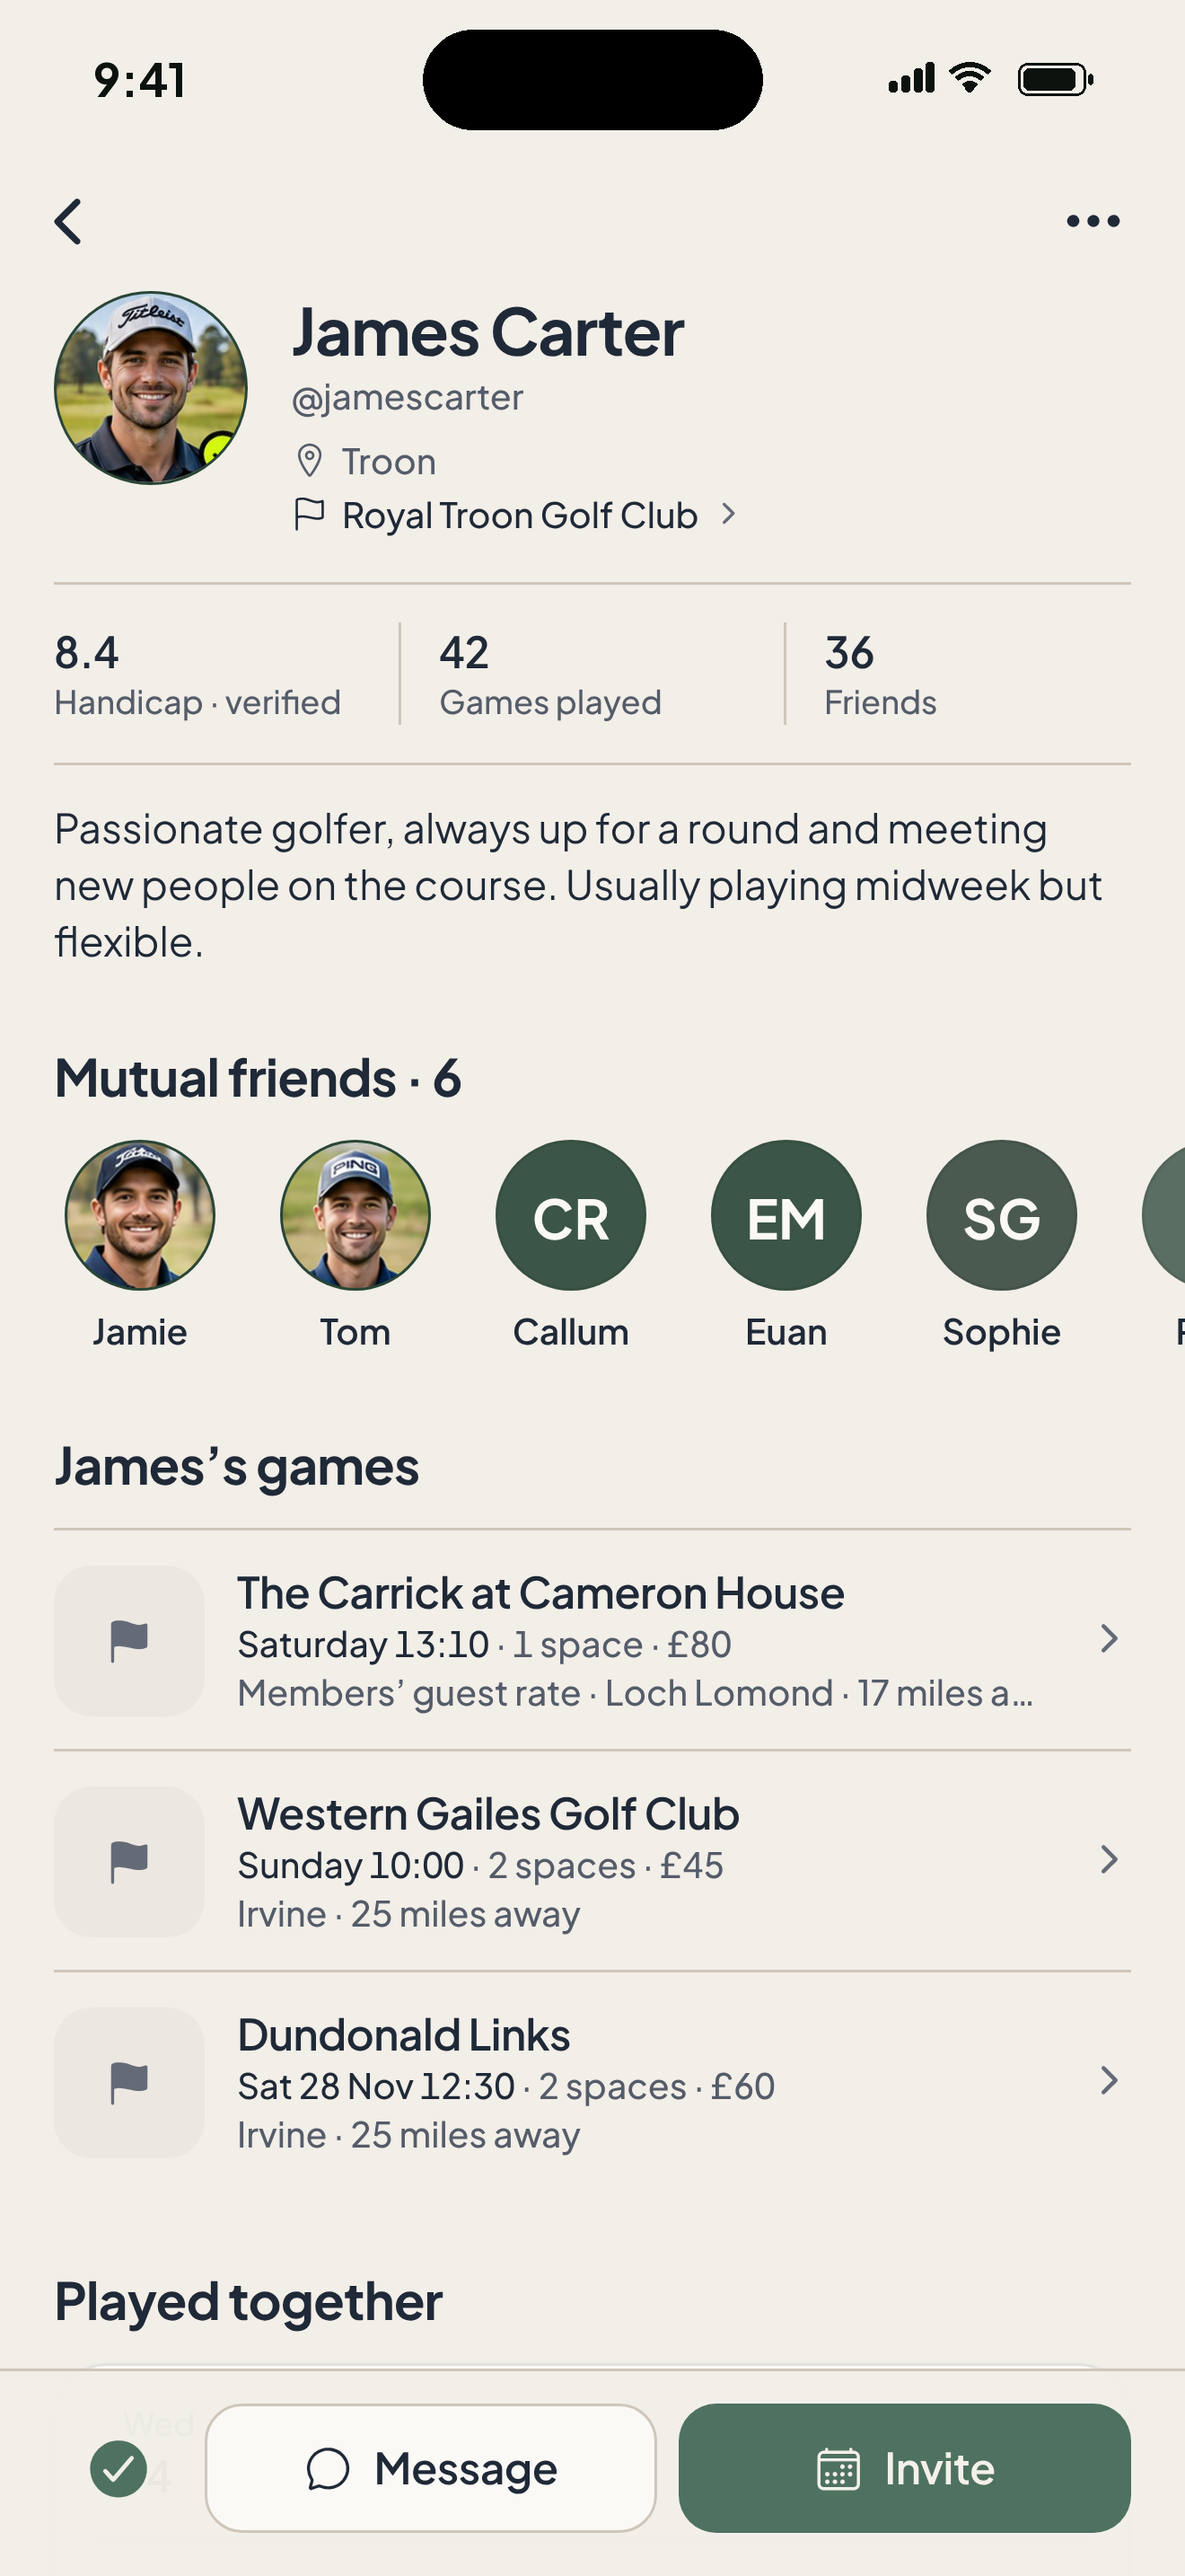
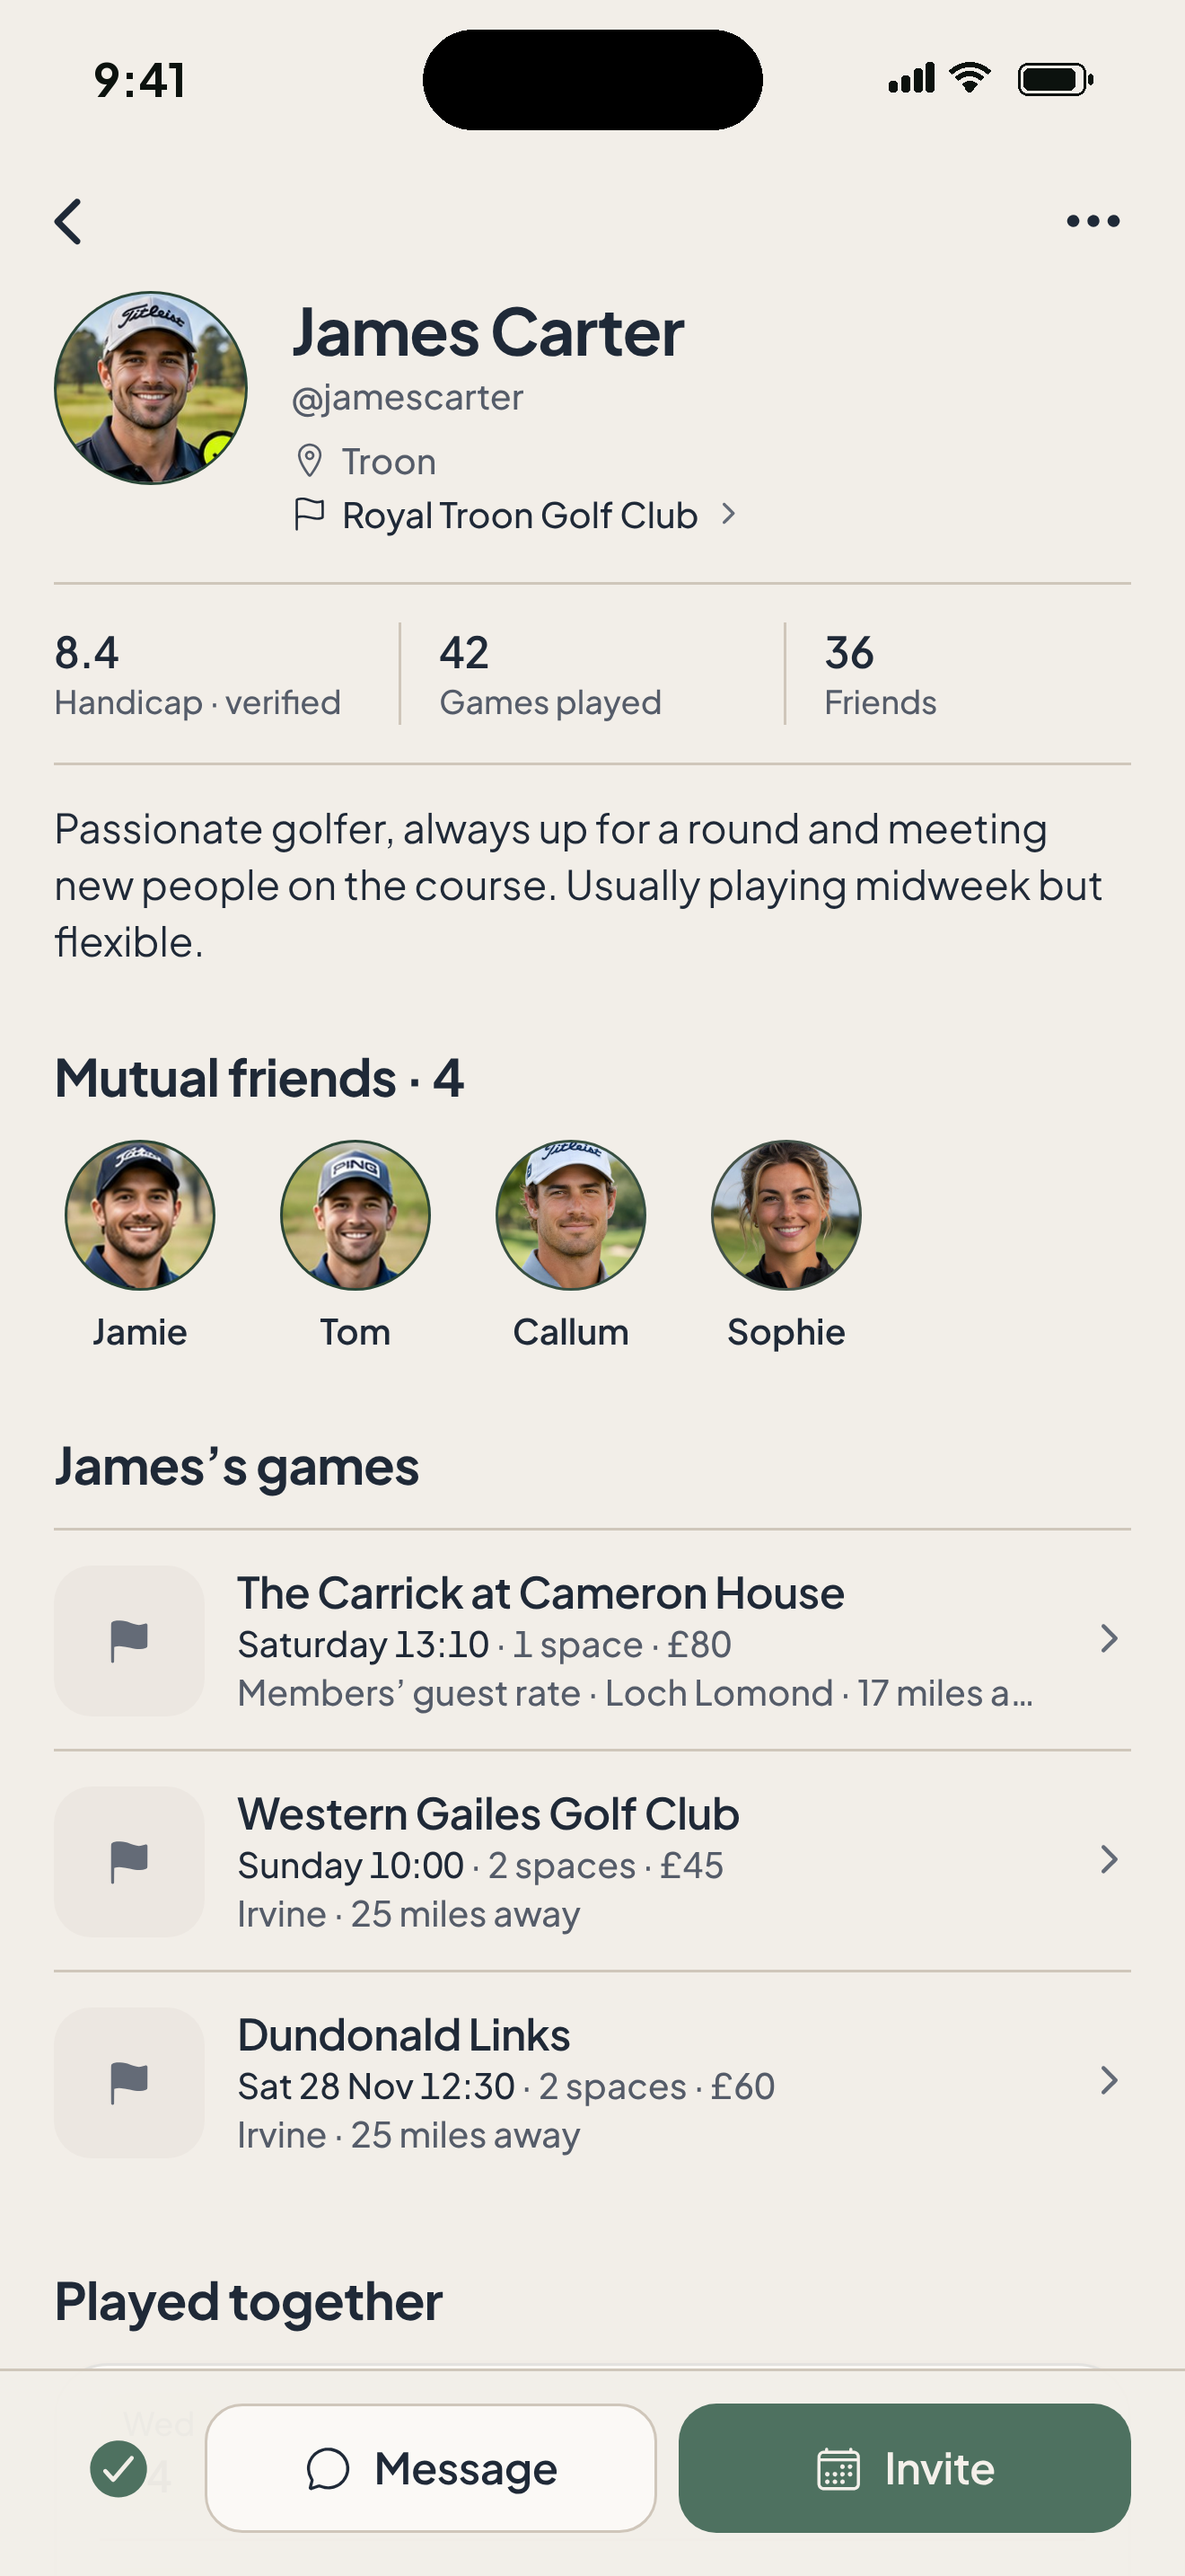
Photos for demo golfers Callum and Sophie, and a photo-only profile screenshot
Callum Reid and Sophie Grant get portraits in place of initials, wherever they appear in the
demo. The App Store profile screenshot shows four mutual friends, all with photos.

Claude-Session: https://claude.ai/code/session_01HoGwsdM8BTbhwhuJxu7WFY

diff --git a/findfore-app/src/data/seed.ts b/findfore-app/src/data/seed.ts
@@ -52,8 +52,8 @@ export const demoGolfers: Golfer[] = [
   golfer({ id: 'g-jamie', firstName: 'Jamie', lastName: 'Wilson', handicap: 6.2, handicapVerified: true, location: place('Troon'), homeClub: 'Western Gailes Golf Club', avatar: 'jamie', gamesPlayed: 31, bio: 'Member at Western Gailes. Happy to host guests who love proper links golf.' }),
   golfer({ id: 'g-tom', firstName: 'Tom', lastName: 'Fraser', handicap: 14.5, location: place('Glasgow'), homeClub: 'Haggs Castle Golf Club', avatar: 'tom', gamesPlayed: 12, bio: 'Competitive enough to care, not enough to ruin anyone’s afternoon.' }),
   golfer({ id: 'g-james', firstName: 'James', lastName: 'Carter', handicap: 8.4, handicapVerified: true, location: place('Troon'), homeClub: 'Royal Troon Golf Club', avatar: 'james', gamesPlayed: 42, memberSince: 2024, bio: 'Passionate golfer, always up for a round and meeting new people on the course. Usually playing midweek but flexible.' }),
-  golfer({ id: 'g-sophie', firstName: 'Sophie', lastName: 'Grant', handicap: 18.3, location: place('Edinburgh'), homeClub: 'Braid Hills Golf Course', gamesPlayed: 9, bio: 'Picked the game up three years ago and completely hooked. Looking to play new courses.' }),
-  golfer({ id: 'g-callum', firstName: 'Callum', lastName: 'Reid', handicap: 3.1, handicapVerified: true, location: place('Glasgow'), homeClub: 'Pollok Golf Club', gamesPlayed: 27, bio: 'Club competitions most weekends. Happy to play with any standard.' }),
+  golfer({ id: 'g-sophie', firstName: 'Sophie', lastName: 'Grant', handicap: 18.3, location: place('Edinburgh'), homeClub: 'Braid Hills Golf Course', avatar: 'sophie', gamesPlayed: 9, bio: 'Picked the game up three years ago and completely hooked. Looking to play new courses.' }),
+  golfer({ id: 'g-callum', firstName: 'Callum', lastName: 'Reid', handicap: 3.1, handicapVerified: true, location: place('Glasgow'), homeClub: 'Pollok Golf Club', avatar: 'callum', gamesPlayed: 27, bio: 'Club competitions most weekends. Happy to play with any standard.' }),
   golfer({ id: 'g-priya', firstName: 'Priya', lastName: 'Shah', handicap: 22.0, location: place('Glasgow'), gamesPlayed: 4, bio: 'Relatively new to golf and keen to play more. Friendly games please!' }),
   golfer({ id: 'g-euan', firstName: 'Euan', lastName: 'MacLeod', handicap: 11.0, location: place('Stirling'), homeClub: 'Buchanan Castle Golf Club', gamesPlayed: 15, bio: 'Twilight golf is the best golf. Usually out after work in summer.' }),
   golfer({ id: 'g-hannah', firstName: 'Hannah', lastName: 'Doyle', handicap: 12.7, location: place('St Andrews'), homeClub: 'Crail Golfing Society', gamesPlayed: 18, bio: 'Fife based. Love a quick round and a coffee after.' }),

diff --git a/findfore-app/src/components/ui.tsx b/findfore-app/src/components/ui.tsx
@@ -333,6 +333,8 @@ const avatarImages: Record<string, number> = {
   jamie: require('@/assets/images/avatars/jamie.jpg'),
   tom: require('@/assets/images/avatars/tom.jpg'),
   james: require('@/assets/images/avatars/james.jpg'),
+  callum: require('@/assets/images/avatars/callum.jpg'),
+  sophie: require('@/assets/images/avatars/sophie.jpg'),
 };
 
 const avatarTints = ['#2C4A3A', '#3B5547', '#24352B', '#4A5A50', '#5B6E62'];
